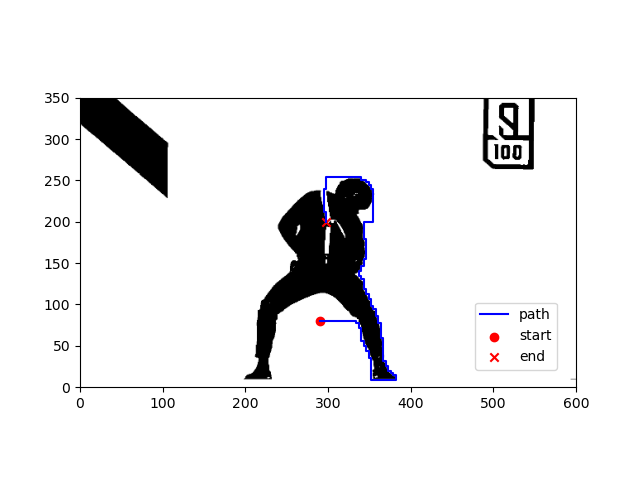
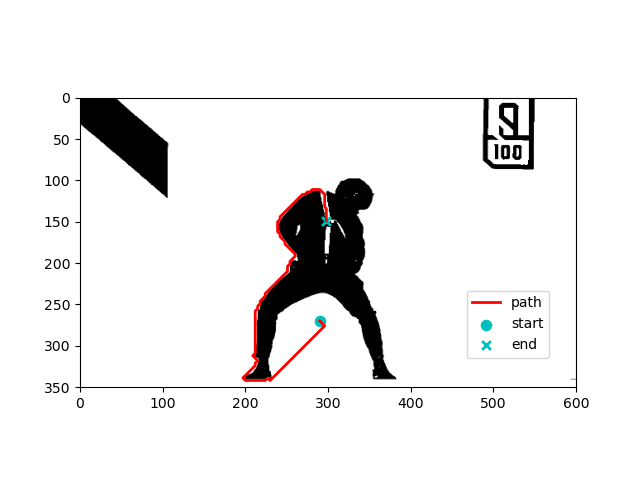
A*

diff --git a/A_star.py b/A_star.py
@@ -1,0 +1,399 @@
+# -*- coding: utf-8 -*-
+"""
+Created on Thu Mar 30 16:45:58 2023
+
+@author: HJ
+"""
+
+# A*算法 
+# http://www.360doc.com/content/21/0811/13/40892371_990562118.shtml
+from typing import Union, NamedTuple
+import cv2
+import time
+import numpy as np
+import matplotlib.pyplot as plt
+from itertools import product
+from functools import lru_cache
+from dataclasses import dataclass, field
+    
+
+# 地图读取
+IMAGE_PATH = 'image.jpg' # 原图路径
+MAP_PATH = 'map.png'     # cv加工后的地图存储路径
+
+THRESH = 172             # 图片二值化阈值, 大于阈值的部分被置为255, 小于部分被置为0
+
+
+# 障碍地图参数设置     #  NOTE cv2 按 HWC 存储图片
+HIGHT = 350          # 地图高度
+WIDTH = 600          # 地图宽度
+START = (290, 270)   # 起点坐标 y轴向下为正
+END = (298, 150)     # 终点坐标 y轴向下为正
+
+
+# 障碍地图提取
+image = cv2.imread(IMAGE_PATH, cv2.IMREAD_GRAYSCALE)                   # 读取原图 H,W,C
+THRESH, map_img = cv2.threshold(image, THRESH, 255, cv2.THRESH_BINARY) # 地图二值化
+map_img = cv2.resize(map_img, (WIDTH, HIGHT))                          # 设置地图尺寸
+cv2.imwrite(MAP_PATH, map_img)                                         # 存储二值地图
+
+
+
+# ----------------- ↓ ↓ ↓ ↓ 避障地图大概长这样 ↓ ↓ ↓ ↓ -----------------
+
+#
+#                                          ...
+#                                       .=BBBB#-
+#                                      .B%&&&&&&#
+#                                .=##  #&&&&&#%&%
+#                              -B&&&&&  &&&&&B=-.
+#                             =&@&&&&&&  &&&&@B
+#                           -%@@@&&&&&&&  &&&&@%.
+#                          =&@@@%%@&&& 起点 &&@@@%
+#                         =@@@$#.%@@@@@@  @@ &@@@-
+#                         .&@@@%&@@@@@@&  @@@ &@@=
+#                            #&@@@&@@@@@  @@@@ B@@=
+#                             -%@@@@@@@@ d@@@@@B&@-
+#                              .B%&&&&@B @@@@@&@#
+#                             #B###BBBBBBB%%&&%#
+#                            .######BBBBBBBBBB.
+#                            =####BBBBBBBBBBBB#-
+#                          .=####BB%%B%%%%%%BB##=
+#                         .=##BBB%%#-  -#%%%BBB##.
+#                        .=##BBB%#.      .#%%BBBB#.
+#                        =##BB%%-   终点    =%%BBBB=
+#                       =#BB%%B-            .B%%%B#-
+#                      =##BBB-                -BB###.
+#                     -=##BB-                  -##=#-
+#                     ==##B=-                  -####=
+#                     =##B#-                   -####=
+#                     ###B=                     =###=
+#                    =##B#-                      ###=
+#                    =BB#=                       =BB=
+#                   -%&%                         =&&#
+#                   %&%%                         B%&&=
+#
+
+# ----------------------------------------------------------------------
+
+
+
+
+
+
+
+
+
+
+
+
+
+""" ---------------------------- A*算法 ---------------------------- """
+
+Number = Union[int, float]
+
+
+# 位置坐标数据类
+@dataclass # 默认就有 __eq__ 方法
+class Position:
+    """位置Position对象\n
+    两个Position对象相减得到两个Position之间的曼哈顿距离\n
+    Position对象加一个坐标得到一个新的Position对象, 即对Position的坐标进行更新\n
+
+    """
+    x: int
+    y: int
+
+    # 计算两个坐标之间的曼哈顿距离
+    def __sub__(self, other) -> int:
+        # int = self - other
+        if isinstance(other, Position):
+            return abs(self.x - other.x) + abs(self.y - other.y)
+        elif isinstance(other, (tuple, list)):
+            return abs(self.x - other[0]) + abs(self.y - other[1])
+        raise ValueError("other必须为坐标或Position")
+    def __rsub__(self, other):
+        # int = other - self
+        return self.__sub__(other)
+      
+    # 更新坐标 x、y
+    def __add__(self, other):
+        # new_pos = self + other
+        if isinstance(other, Position):
+            return Position(self.x + other.x, self.y + other.y)
+        elif isinstance(other, (tuple, list)):
+            return Position(self.x + other[0], self.y + other[1])
+        raise ValueError("other必须为坐标或Position")
+    
+    # 数据类型检查
+    def check(self):
+        if not isinstance(self.x, int) or not isinstance(self.y, int):
+            raise ValueError("x,y坐标必须为int类型")
+
+
+# 节点数据类
+@dataclass
+class NodeList:
+    """节点存储列表: OpenList / CloseList"""
+    pos_list: list[Position] = field(default_factory=list) # 节点位置坐标存储列表
+    cost_list: list[Number] = field(default_factory=list)  # CloseList的G代价, OpenList的F代价
+    parent_list: list[Position] = field(default_factory=list) # 父节点坐标
+    #NOTE: 可变对象不能作为默认参数, 需要field
+
+    def __bool__(self):
+        """判断: while NodeList:"""
+        return bool(self.pos_list)
+    
+    def __contains__(self, item):
+        """包含: pos in NodeList"""
+        return item in self.pos_list 
+        #NOTE: in是值比较, 只看value是否在列表, 不看id是否在列表
+
+    def __len__(self):
+        """长度: len(NodeList)"""
+        return len(self.pos_list)
+    
+    def __getitem__(self, idx):
+        """索引: NodeList[i]""" #NOTE: idx = 0:2:1 等时 自动转换成 idx=slice(0,2,1)
+        return self.pos_list[idx], self.cost_list[idx], self.parent_list[idx]
+    
+    # def __iter__(self):
+    #     """实现__getitem__自动实现__iter__了"""
+    #     return zip(self.pos_list, self.cost_list)
+
+    
+    def append(self, pos: Position, cost: Number, parent: Position):
+        self.pos_list.append(pos)
+        self.cost_list.append(cost)
+        self.parent_list.append(parent)
+
+    def pop(self, idx):
+        return self.pos_list.pop(idx), self.cost_list.pop(idx), self.parent_list.pop(idx)
+    
+    def getmin(self):
+        """获取cost最小的节点, 并在NodeList中删除"""
+        idx = self.cost_list.index(min(self.cost_list))
+        pos, cost, parent = self.pop(idx)
+        return pos, cost, parent
+    
+
+
+
+# A*算法
+class AStar:
+    """A*算法"""
+
+    def __init__(
+        self,
+        start_pos = START,
+        end_pos = END,
+        map_img = map_img,
+        move_step = 3,
+        move_direction = 8,
+        run = True,
+    ):
+        """A*算法
+
+        Parameters
+        ----------
+        start_pos : tuple/list
+            起点坐标
+        end_pos : tuple/list
+            终点坐标
+        map_img : Mat
+            二值化地图, 0表示障碍物, 255表示空白
+        move_step : int
+            移动步数, 默认3
+        move_direction : int (8 or 4)
+            移动方向, 默认8个方向
+        run : bool
+            是否在算法实例化之后运行算法, 否则需要手动调用
+        """
+
+        # 网格化地图
+        self.map_ = np.array(map_img) # H * W
+
+        self.width = self.map_.shape[1]
+        self.high = self.map_.shape[0]
+
+        # 起点终点
+        self.start_pos = Position(*start_pos) # 初始位置
+        self.end_pos = Position(*end_pos)     # 结束位置
+       
+        # Error Check
+        if not self._in_map(self.start_pos) or not self._in_map(self.end_pos):
+            raise ValueError(f"x坐标范围0~{self.width}, y坐标范围0~{self.height}")
+        self.start_pos.check()
+        self.end_pos.check()
+       
+        # 算法初始化
+        self.reset(move_step, move_direction)
+        
+        # 算法运行
+        if run:
+            self.__call__()
+
+
+    def reset(self, move_step=3, move_direction=8):
+        """重置算法"""
+        self.move_step = move_step                # 移动步长(搜索后期会减小)
+        self.move_direction = move_direction      # 移动方向 8 个
+        self.close_list = NodeList()              # 存储已经走过的位置及其G值 
+        self.open_list = NodeList()               # 存储当前位置周围可行的位置及其F值
+        self.path_list = []                       # 存储路径(CloseList里的数据无序)
+
+
+    def _in_map(self, pos: Position):
+        """点是否在网格地图中"""
+        return (0 <= pos.x <= self.width) and (0 <= pos.y <= self.high)
+    
+
+    def _is_collided(self, pos: Position):
+        """点是否和障碍物碰撞"""
+        return self.map_[pos.y, pos.x] == 0
+    
+
+    @lru_cache(maxsize=5) # 避免move_step相同时重复计算
+    def _move(self, move_step: int):
+        """移动点"""
+        move = (
+            ([0, move_step], move_step), # 上
+            ([0, -move_step], move_step), # 下
+            ([-move_step, 0], move_step), # 左
+            ([move_step, 0], move_step), # 右
+            ([move_step, move_step], move_step*1.414), # 右上
+            ([move_step, -move_step], move_step*1.414), # 右下
+            ([-move_step, move_step], move_step*1.414), # 左上
+            ([-move_step, -move_step], move_step*1.414), # 左下
+            )
+        return move[0:self.move_direction] # 坐标增量+代价
+
+
+    def _update_open_list(self, curr_pos: Position, G_curr: Number, *args):
+        """open_list添加可行点"""
+       
+        # open_list添加可行结点
+        for (add, cost) in self._move(self.move_step):
+            # 更新可行位置
+            next_pos = curr_pos + add
+
+            # 新位置是否在地图外边
+            if not self._in_map(next_pos):
+                continue
+            # 新位置是否碰到障碍物
+            if self._is_collided(next_pos):
+                continue
+            # 新位置是否已经存在
+            if next_pos in self.open_list or next_pos in self.close_list:
+                continue # in是值比较, 只看(x,y)是否在列表, 不看id是否在列表
+
+            # 计算所添加的结点的代价
+            G = G_curr + cost           # 已走的代价
+            H = next_pos - self.end_pos # 剩余距离估计
+            F = G + H                   # 节点的总代价
+
+            # open-list添加结点
+            self.open_list.append(next_pos, F, curr_pos)
+            
+            # 当剩余距离小时, 走慢一点
+            if H < 20:
+                self.move_step = 1
+
+
+    def __call__(self):
+        """A*路径搜索"""
+        _t0 = time.time()
+
+        # 初始化列表
+        self.close_list.append(self.start_pos, 0, self.start_pos) # 初始化 CloseList
+        self._update_open_list(self.start_pos, 0) # 初始化 OpenList
+
+        # 正向搜索节点(CloseList里的数据无序)
+        while self.open_list:
+            # 寻找 OpenList 代价最小的点, 并在OpenList中删除
+            pos, F, parent = self.open_list.getmin()
+            G = F - (pos - self.end_pos) # G = F - H
+
+            # 更新 CloseList
+            self.close_list.append(pos, G, parent)
+
+            # 结束迭代
+            if pos == self.end_pos:
+                print("路径节点搜索完成\n")
+                break
+
+            # 更新 OpenList
+            self._update_open_list(*self.close_list[-1])
+
+        # 节点组合成路径
+        path = self.close_list[-1] # P0, G, P1
+        start = self.close_list[0] # P0, G, P1
+        while path != start:
+            for path_curr in self.close_list:
+                if path_curr[0] == path[2]: # 如果当前节点是目标节点的父节点
+                    path = path_curr # 更新目标节点
+                    self.path_list.append(path_curr[0]) # 将当前节点加入路径
+        print("路径节点整合完成\n")
+
+        _t1 = time.time()
+        print(f"历时: {_t1-_t0}s\n")
+
+        # 绘图输出
+        self.show()
+        
+
+
+    def show(self):
+        """绘图输出"""
+        x, y = [], []
+        for p in self.path_list:
+            x.append(p.x)
+            y.append(p.y)
+       
+        fig, ax = plt.subplots()
+        map_ = cv2.imread(MAP_PATH)
+        map_ = cv2.resize(map_, (self.width, self.high)) 
+        #img = cv2.cvtColor(img, cv2.COLOR_BGR2RGB) # R G B
+        #img = img[:, :, ::-1] # R G B
+        map_ = map_[::-1] # 画出来的鸡哥是反的, 需要转过来
+
+        ax.imshow(map_, extent=[0, self.width, 0, self.high]) # extent[x_min, x_max, y_min, y_max]
+    
+        ax.plot(x, y, c = 'r', label='path', linewidth=2)
+        ax.scatter(x[-1], y[-1], c='c', marker='o', label='start', s=40, linewidth=2)
+        ax.scatter(x[0], y[0], c='c', marker='x', label='end', s=40, linewidth=2)
+
+        ax.invert_yaxis() # 反转y轴
+    
+        ax.legend().set_draggable(True)
+
+        plt.show()
+
+
+
+
+
+
+# debug
+if __name__ == '__main__':
+    s = AStar()
+
+            
+
+
+            
+
+
+        
+
+
+
+
+
+
+
+
+
+
+
+
